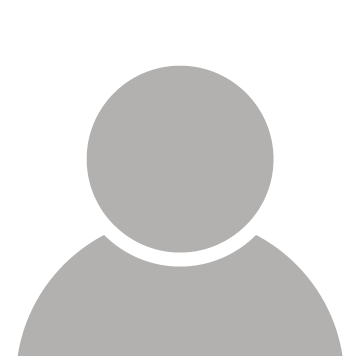
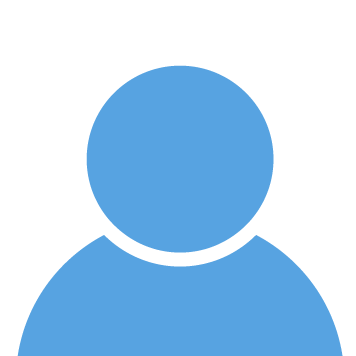
Adjusted color for default profile picture

diff --git a/app/helpers/application_helper.rb b/app/helpers/application_helper.rb
@@ -20,7 +20,7 @@ module ApplicationHelper
       default_url = root_url + image_path("default-profile.png")
     else
       # for testing environments use a publically hosted one
-      default_url = "http://i.imgur.com/h7Ch3qJ.png"
+      default_url = "http://i.imgur.com/1scmzd5.png"
     end
     # generate id
     gravatar_id = Digest::MD5.hexdigest(user.email.downcase)
